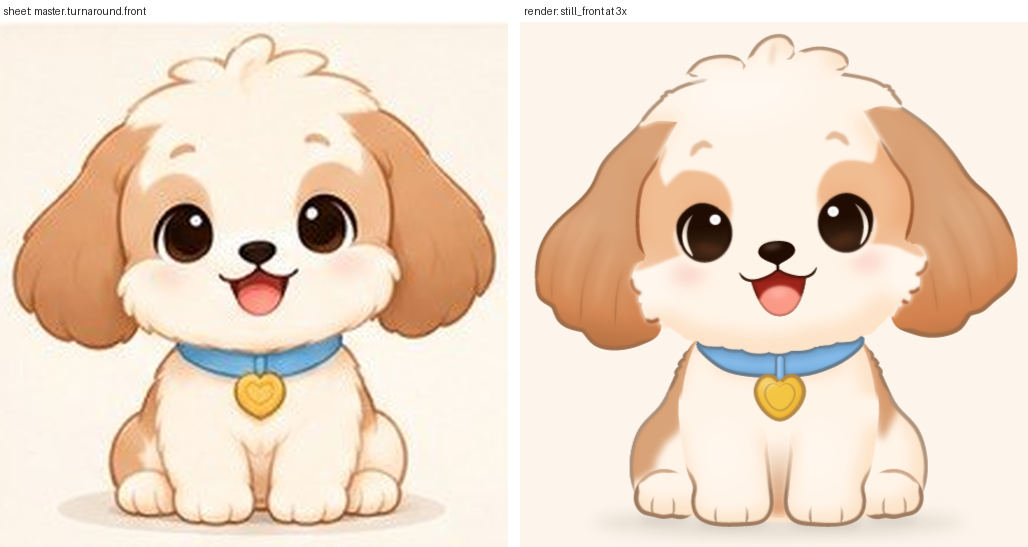
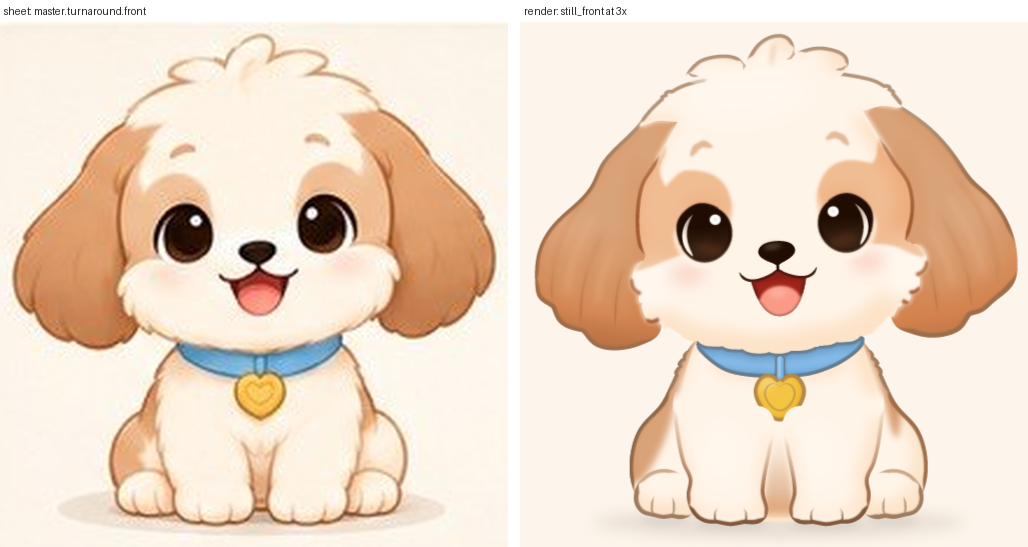
The front's legs: a V that opens downward, bun paws with toes, warm lines that follow the light
The legs' inner edges run down from the V's point under the tag and part toward the
wrists, as the sheet's do; each paw swells a little past the wrist into a bun whose sole
dips at two short curved toe lines; the sole carries the figure's darkest line
(palette.soleLine, the warm line 30% toward the dark brown) with no shade band over it,
and a fine line fades in between the leg and the haunch where the sheet draws one. The
haunch line is the warm brown the sheet draws, and the saddle's halves sit outside the
leg's line: a rounded tear on the right haunch with cream between it and the leg, a
narrow streak down the left shoulder.

Claude-Session: https://claude.ai/code/session_01MXaHnDR5xXHB9UwvyUL8cb

Changed region(s): [[0.5914, 0.6837, 0.8405, 0.9634], [0.8405, 0.6527, 0.9027, 0.9324], [0.7471, 0.7459, 0.7782, 0.777]]

diff --git a/characters/dog/src/views/front.ts b/characters/dog/src/views/front.ts
@@ -112,19 +112,22 @@ const hind = { R: smooth(hindR, { corners: HIND_TOES }), L: smooth(mirrorX(hindR
 const chest = symmetric([[0, -66], [-16, -65.4], [-25.6, -63.2], [-28, -60], [-29.6, -56.2], [-31, -51.4], [-32, -46], [-32.6, -40],
   [-32.4, -34], [-31.6, -26], [-29.6, -17], [-26.4, -9], [-20, -4.4], [-8, -3.2]], [0, -3]);
 
-// The front legs: short chubby columns that come out of the chest close
-// together, as the sheet draws them (their inner edges at x -4.8 at y -33, -1.6
-// at -19 and -1.1 at the wrist), each coming out from under the shoulder's
-// saddle, its outer edge where the sheet's tan meets the cream (x -33.4 from y
-// -41 to -35, -31.2 at -22), narrowing a little to the wrist (x -29 at y
-// -13.4), then swelling into a round bulb of a paw a little wider than the
-// wrist (x -29.5 at y -9 outside, -0.5 at -8.4 inside), its sole one convex
-// curve from round corner to round corner, lowest under its middle, where it
-// rests on the ground, as the sheet's does.
-const legR: Node[] = [[-5, -33], [-3.6, -25.4], [-2.8, -19], [-2.2, -13.4], [-1.7, -8.6], [-2.3, -4.9], [-4.4, -1.9], [-7.6, -0.6], [-11, -0.25], [-16, -0.05],
-  [-21, -0.4], [-24.8, -1.4], [-27.6, -3.4], [-28.9, -6.4], [-29.1, -9.4], [-28.6, -13.4], [-30.2, -17.4], [-31.2, -22], [-32.4, -28], [-33.2, -35],
-  [-33.4, -41], [-31.4, -46.6], [-26, -44], [-15, -40]];
-const legs = { R: smooth(legR), L: smooth(mirrorX(legR)) };
+// The front legs: short chubby columns that come out of the chest side by
+// side, as the sheet draws them, their inner edges running down from the V's
+// top just under the tag (x -1.8 at y -30) and parting a little toward the
+// wrist (-4.7 at -10.6), so the V between them widens downward; each comes out
+// from under the shoulder's saddle, its outer edge where the sheet draws the
+// leg's fine line against the haunch (x -35.2 at y -41, -32.2 at -21),
+// narrowing to the wrist (x -30 at y -15.8), then swelling into a round bun of a paw (x
+// -30.7 at y -11.2 outside, -3.4 at -6.4 inside), its outer corner well
+// rounded, its sole convex and dipping a little at the two toe lines (concave
+// corners), so it rests on the ground in three round toes, as the sheet's does.
+const legR: Node[] = [[-1.6, -36], [-1.8, -30], [-3.1, -22], [-4.5, -14.6], [-4.7, -10.6], [-3.4, -6.4], [-4.4, -2.9], [-8, -0.75], [-11.4, -1], [-16, -0.1],
+  [-20.6, -1.05], [-24.2, -1.3], [-27.8, -3.2], [-30, -6.8], [-30.7, -11.2], [-30, -15.8], [-32.2, -21], [-33.8, -28], [-34.8, -35], [-35.2, -41],
+  [-33, -47], [-26, -44], [-15, -40], [-5, -40]];
+/** The sole's dips at the toe lines (concave, so no corner rule applies). */
+const FRONT_TOES = [8, 10];
+const legs = { R: smooth(legR, { corners: FRONT_TOES }), L: smooth(mirrorX(legR), { corners: FRONT_TOES.map((j) => (legR.length - j) % legR.length) }) };
 
 // The collar: a band round the neck, following the chin down to a dip at the
 // front, as the sheet draws it: about 8.5 pt deep at the front with its rims
@@ -316,20 +319,17 @@ const patches = {
 const patchFade = { R: { from: [-16.8, -105.4], to: [-13.6, -104.4] }, L: { from: [14.2, -109.6], to: [11, -108.6] } } satisfies Record<string, Fade>;
 // The saddle's two halves where they show from the front, as the sheet paints
 // them. The right half runs down the shoulder from under the collar's end, a
-// strip of tan along the line, and widens over the upper outer haunch, its tan
-// running in under the front leg down to y -30; below that its inner edge runs
-// out across the thigh in a broken edge of fur (x -38 at y -28, -40 at -23),
-// leaving a streak of cream beside the leg, and the outer thigh's tan runs on
-// down the line to the hind paw, so the lower thigh above the hind paw is
-// cream. The left half is a
-// narrow streak down the shoulder from under the collar's end along the edge of
-// the front leg (the sheet's, x 33 to 39 from y -47 to -32), running out at the
-// top of the haunch, whose round is cream.
-const saddleR = smooth([[-27, -64.2], [-31.6, -63.4], [-37, -54], [-42, -45.6], [-53, -36], [-53, -17.6], [-47.6, -15.4], [-44.6, -17], [-42.2, -18.4], [-40.6, -20.4],
-  [-41.2, -22.2], [-39.6, -24.4], [-38.6, -26.6], [-37.4, -28.2], [-34.4, -30.6], [-32.4, -34], [-31.8, -40], [-30.6, -46], [-28.8, -53], [-27.4, -58.6]],
-  { corners: [9, 10, 11] });
-const saddleL = smooth([[27, -64.2], [31.6, -63.4], [36.4, -55], [39.6, -47], [40.4, -42.4], [39.2, -38.6], [37.4, -34.4], [35.8, -30.6], [34.4, -28.4], [33.4, -31],
-  [32.4, -38], [31.6, -46], [30.4, -52], [28.6, -57.6]], { corners: [8] });
+// strip of tan along the line, and widens into a rounded tear over the outer
+// haunch down to the hind paw's top, its inner edge along the front leg's line
+// down to y -30 and then out across the thigh (x -40 at y -24.6, -45 at -16.4),
+// leaving a wedge of cream between it and the leg above the hind paw. The left
+// half is a narrow streak down the shoulder from under the collar's end, outside
+// the front leg's line (the sheet's, x 36 to 41 from y -47 to -32), running out
+// to a point at the top of the haunch, whose round is cream.
+const saddleR = smooth([[-27, -64.2], [-31.6, -63.4], [-37.4, -55], [-43, -46], [-53, -36], [-54, -20], [-49, -14.6], [-45, -16.4], [-42.4, -20.2], [-40, -24.6],
+  [-38, -29], [-36.2, -34.4], [-35, -40], [-33.4, -46.4], [-30.8, -53], [-28.4, -58.6]]);
+const saddleL = smooth([[27, -64.2], [31.6, -63.4], [36.2, -55.6], [38.8, -47.4], [40.2, -41], [40.6, -36.2], [40.2, -32.4], [39.2, -29.6], [37.8, -31.8], [36.6, -36.8],
+  [35, -44], [32.6, -51], [29.6, -57.6]]);
 
 // Paint.
 
@@ -348,12 +348,11 @@ const backPaint: Paint = {
   fill: C.fur,
   shade: furShade(hipGroup),
   // From under the collar's end down the shoulder, the lighter fur line, coming out from under the collar; round
-  // the haunch, the light grey-brown line the sheet draws there (#BB9370 to #BE997E), thinner and lighter than
-  // the head's, lighter on the side toward the light. The two cross-fade where the shoulder meets the haunch,
-  // their tapers overlapping.
-  outline: { ...OUTLINE, colour: C.haunchLine, width: 1.2, taper: 6, spans: [
-    { from: [-29.2, -61.4], to: [-38.8, -42.6], width: THIN, colour: C.furLine }, { from: [-35.6, -47.6], to: [-47.4, -11] },
-    { from: [47.4, -11], to: [35.6, -47.6], width: 1.35 }, { from: [38.8, -42.6], to: [29.2, -61.4], width: THIN, colour: C.furLine }] },
+  // the haunch, the warm brown the sheet draws there (#9B6946 at its darkest), lighter and thinner on the side
+  // toward the light. The two cross-fade where the shoulder meets the haunch, their tapers overlapping.
+  outline: { ...OUTLINE, colour: C.warmLine, width: 1.25, taper: 6, spans: [
+    { from: [-29.2, -61.4], to: [-38.8, -42.6], width: THIN, colour: C.furLine }, { from: [-35.6, -47.6], to: [-47.4, -11], colour: C.outline },
+    { from: [47.4, -11], to: [35.6, -47.6], width: 1.4 }, { from: [38.8, -42.6], to: [29.2, -61.4], width: THIN, colour: C.furLine }] },
 };
 const headPaint: Paint = {
   fill: C.fur,
@@ -723,21 +722,20 @@ function earPaint(side: "L" | "R"): Paint {
 }
 
 /**
- * Between the front legs the sheet paints a narrow, light warm-tan V: nothing at its top, about 30 pt up, where
- * it fades up into the chest's cream with no edge, then a pale tan down the narrow slot between the legs (whose
- * inner edges lie over its sides), deepening only low down between the paws, then easing out where the paws meet,
- * so the floor shows light under them. No line runs down its middle and nothing marks its top.
+ * Between the front legs the sheet paints a narrow, light warm-tan V, its point at the top: nothing at its top,
+ * about 32 pt up just under the tag, where it fades up into the chest's cream with no edge, then a pale tan down
+ * the slot between the legs (whose inner edges lie over its sides), widening and deepening low down between the
+ * paws, then easing out where the paws meet the floor. No line runs down its middle and nothing marks its top.
  */
 function between(): string {
   const g = uid("between"), f = uid("blur");
-  // A narrow, round-topped V, 7 pt across at y -29 and 2.4 pt between the paws, fully faded at its top.
-  const v = smooth([[0, -31], [4, -29.6], [3.4, -20], [2.6, -10], [2.2, -2.6], [-2.2, -2.6], [-2.6, -10], [-3.4, -20], [-4, -29.6]]);
-  return `<defs><linearGradient id="${g}" gradientUnits="userSpaceOnUse" x1="0" y1="-30" x2="0" y2="-2.6">` +
-    `<stop offset="0" stop-color="${C.marking}" stop-opacity="0"/><stop offset="0.15" stop-color="${C.marking}" stop-opacity="0.15"/>` +
-    `<stop offset="0.37" stop-color="${C.marking}" stop-opacity="0.45"/><stop offset="0.55" stop-color="${C.marking}" stop-opacity="0.75"/>` +
-    `<stop offset="0.75" stop-color="${C.marking}" stop-opacity="0.85"/><stop offset="0.9" stop-color="${C.earDeep}" stop-opacity="0.8"/>` +
-    `<stop offset="1" stop-color="${C.earDeep}" stop-opacity="0"/></linearGradient>` +
-    `${blur(f, [-12, -36, 24, 36], 1.1)}</defs>` +
+  // A narrow V, its point at the top: 3.6 pt across at y -26 and 9.6 pt between the wrists.
+  const v = smooth([[0, -33], [1.6, -29], [3.4, -20], [4.8, -10], [4.6, -2.6], [-4.6, -2.6], [-4.8, -10], [-3.4, -20], [-1.6, -29]]);
+  return `<defs><linearGradient id="${g}" gradientUnits="userSpaceOnUse" x1="0" y1="-32" x2="0" y2="-2.6">` +
+    `<stop offset="0" stop-color="${C.marking}" stop-opacity="0"/><stop offset="0.25" stop-color="${C.marking}" stop-opacity="0.18"/>` +
+    `<stop offset="0.5" stop-color="${C.marking}" stop-opacity="0.5"/><stop offset="0.75" stop-color="${C.marking}" stop-opacity="0.75"/>` +
+    `<stop offset="0.9" stop-color="${C.earDeep}" stop-opacity="0.7"/><stop offset="1" stop-color="${C.earDeep}" stop-opacity="0"/></linearGradient>` +
+    `${blur(f, [-12, -36, 24, 36], 1)}</defs>` +
     `<path d="${pathD(v.segs)}" fill="url(#${g})" filter="url(#${f})"/>`;
 }
 
@@ -770,7 +768,7 @@ export function front(): Drawn[] {
     ])));
   add("body.back", part("body.back", back, backPaint));
   add("back.patch.R", marking("back.patch.R", { shape: back, paint: backPaint }, saddleR, { fill: C.marking, blur: 1.2, clip: true }));
-  add("back.patch.L", marking("back.patch.L", { shape: back, paint: backPaint }, saddleL, { fill: C.marking, blur: 1.2, clip: true }));
+  add("back.patch.L", marking("back.patch.L", { shape: back, paint: backPaint }, saddleL, { fill: C.marking, blur: 0.9, clip: true }));
   for (const side of ["R", "L"] as const) {
     const sx = side === "R" ? -1 : 1, cx = sx * 37.6, cy = -10.9;
     add(`hind.${side}`, roomy(part(`hind.${side}`, hind[side], {
@@ -852,29 +850,37 @@ export function front(): Drawn[] {
   }));
   for (const side of ["R", "L"] as const) {
     const sx = side === "R" ? -1 : 1;
-    // No line runs down the leg's outer side from the shoulder: the saddle's tan meets its cream there with no line,
-    // as the sheet paints it. The leg's one line comes in light at the V's top, runs down its inner side as a light
-    // warm line (the sheet's #DCB896 at y -25 to #B9825B at -16), deepens to the paw's warm line round the paw and
-    // runs out, tapering, on its outer side above the wrist.
-    const fade = uid("legline"), toe = uid("toe");
+    // No line runs down the leg's outer side from the collar: the shoulder's fur meets the leg with no line, as the
+    // sheet paints it. The leg's lines change with the light, as the sheet's do: a fine warm line comes in from
+    // nothing at the V's point and runs down the leg's inner side (the sheet's #AE7C58 low down); under the paw the
+    // darkest line of the figure, the sole's (the sheet's #7B5330 to #835C3C), dipping at the toes; and up the
+    // paw's outer side a warm line that lightens past the wrist and fades out below the shoulder, the fine line
+    // the sheet draws between the leg and the haunch.
+    const fade = uid("legline"), rise = uid("legline"), toe = uid("toe");
     // The one soft light on the leg's front, toward the light, so its cream is never one flat fill (the sheet's
-    // varies by about 2 L* down the leg); the shade along its inner side, where it turns into the V.
+    // varies by about 2 L* down the leg); the shade along its inner side, where it turns into the V; and no shade
+    // band along the sole, whose line alone marks the paw's foot.
     const litX = side === "R" ? -19 : 13;
     add(`front.${side}`, part(`front.${side}`, legs[side], {
       fill: C.fur,
-      shade: furShade(bodyGroup, [polyD(flipX([[-1, -31], [-6.4, -31], [-5, -18], [-3.8, -8], [-1, -8]], side))], ["M-40 -60 L40 -60 L40 -34 L-40 -34Z"], { inset: 2, toLight: 3 }),
+      shade: furShade(bodyGroup, [polyD(flipX([[-1.4, -33], [-4.6, -28], [-6.8, -16], [-6.6, -8], [-3, -8], [-3.6, -16], [-2.2, -28]], side))],
+        ["M-40 -60 L40 -60 L40 -36 L-40 -36Z", "M-40 -3.4 L40 -3.4 L40 4 L-40 4Z"], { inset: 2, toLight: 3 }),
       highlight: { d: `M${litX - 7} -24 a7 10 0 1 0 14 0 a7 10 0 1 0 -14 0Z`, colour: C.light, opacity: 0.25, blur: 3.5 },
-      under: `<defs><linearGradient id="${fade}" gradientUnits="userSpaceOnUse" x1="0" y1="-29" x2="0" y2="-11">` +
-        `<stop offset="0" stop-color="${C.softLine}" stop-opacity="0.1"/><stop offset="0.3" stop-color="${C.softLine}" stop-opacity="0.5"/><stop offset="0.55" stop-color="${C.softLine}" stop-opacity="0.9"/><stop offset="1" stop-color="${C.pawLine}"/></linearGradient>` +
+      under: `<defs><linearGradient id="${fade}" gradientUnits="userSpaceOnUse" x1="0" y1="-31" x2="0" y2="-12">` +
+        `<stop offset="0" stop-color="${C.softLine}" stop-opacity="0"/><stop offset="0.35" stop-color="${C.softLine}" stop-opacity="0.6"/><stop offset="1" stop-color="${C.warmLine}"/></linearGradient>` +
+        `<linearGradient id="${rise}" gradientUnits="userSpaceOnUse" x1="0" y1="-42" x2="0" y2="-14">` +
+        `<stop offset="0" stop-color="${C.softLine}" stop-opacity="0"/><stop offset="0.35" stop-color="${C.softLine}" stop-opacity="0.6"/><stop offset="1" stop-color="${C.warmLine}"/></linearGradient>` +
         // The toe lines fade out toward their tops.
-        `<linearGradient id="${toe}" gradientUnits="userSpaceOnUse" x1="0" y1="-1" x2="0" y2="-7.4">` +
-        `<stop offset="0.3" stop-color="${C.pawLine}"/><stop offset="1" stop-color="${C.pawLine}" stop-opacity="0.1"/></linearGradient></defs>`,
-      // Two faint toe lines rising from the sole about 6 pt up the paw, each bowing a little away from the middle
-      // toe, as the paw-stub and stubby-paws panels draw them; the sole runs on unbroken under them.
-      inner: [[[-20.6, -0.9], [-21.1, -3], [-21.1, -5.2], [-20.6, -7.2]], [[-11, -0.8], [-10.5, -2.9], [-10.5, -5.1], [-11, -7.1]]]
-        .map((pts) => ({ pts: flipX(pts as P[], side), width: 0.75, colour: `url(#${toe})`, opacity: 0.8 })),
-      // One line from the V's top down the leg's inner side, round the paw and up its outer side to y -21.
-      outline: { ...OUTLINE, taper: 5, spans: bySide(side, [{ from: [-4, -29], to: [-31, -21], width: 1.3, colour: `url(#${fade})` }]) },
+        `<linearGradient id="${toe}" gradientUnits="userSpaceOnUse" x1="0" y1="-1" x2="0" y2="-6.6">` +
+        `<stop offset="0.25" stop-color="${C.soleLine}"/><stop offset="1" stop-color="${C.warmLine}" stop-opacity="0.15"/></linearGradient></defs>`,
+      // Two short curved toe lines rising from the sole's dips about 5.5 pt up the paw, each bowing a little away from
+      // the middle toe and turning in at its top round it, as the paw-stub and stubby-paws panels draw them.
+      inner: [[[-20.6, -1.1], [-21.3, -2.9], [-21.2, -4.8], [-20.3, -6.5]], [[-11.4, -1.05], [-10.8, -2.9], [-10.9, -4.8], [-11.8, -6.4]]]
+        .map((pts) => ({ pts: flipX(pts as P[], side), width: 0.75, colour: `url(#${toe})`, opacity: 0.85 })),
+      // From the V's point down the inner side; under the paw; up its outer side, fading out below the shoulder. Their tapers overlap, so
+      // each line hands on to the next with no join.
+      outline: { ...OUTLINE, taper: 4, spans: bySide(side, [{ from: [-1.8, -31], to: [-5.6, -1.6], width: 1.25, colour: `url(#${fade})` },
+        { from: [-3.6, -4.2], to: [-30, -8.6], width: 1.4, colour: C.soleLine }, { from: [-29.4, -5.6], to: [-35, -40], width: 1.25, colour: `url(#${rise})` }]) },
       // Its top fades in under the shoulder, so it comes out from under the saddle's tan with no edge.
       feather: { from: [sx * 31, -45.6], to: [sx * 31, -41.8] },
     }));

diff --git a/characters/dog/src/palette.ts b/characters/dog/src/palette.ts
@@ -60,6 +60,9 @@ export const C = {
   /** The outline warmed toward the ears' deep brown: the sheet's line round the haunches, the paws and under the
    * chin, #9F6D4A against the sheet's #A06D48 to #A36E4F there. */
   warmLine: mix(outline, mix(darken(multiply(marking, marking), 0.12), marking, 0.33), 0.4),
+  /** The line under the paws' soles, the darkest of the outer lines, where the light is furthest: the warm line 30%
+   * of the way to the printed dark brown, #81573A against the sheet's #7B5330 to #835C3C under the paws. */
+  soleLine: mix(mix(outline, mix(darken(multiply(marking, marking), 0.12), marking, 0.33), 0.4), dark, 0.3),
   /** The line round the paws and their soles: the outline 15% of the way to the soft shadow, a greyer brown,
    * #9E7B5F against the sheet's #9A7B5E to #977C61. */
   pawLine: mix(outline, need(printed, "shadow"), 0.15),
